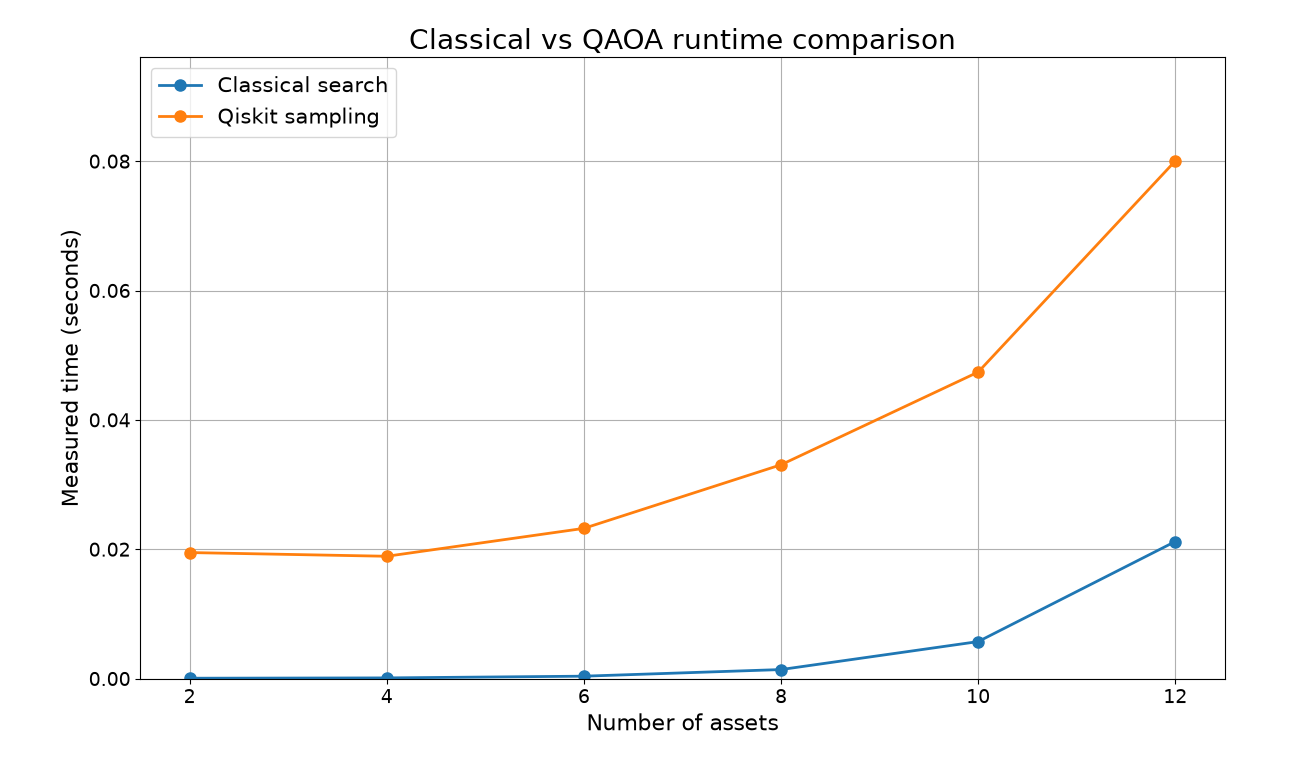
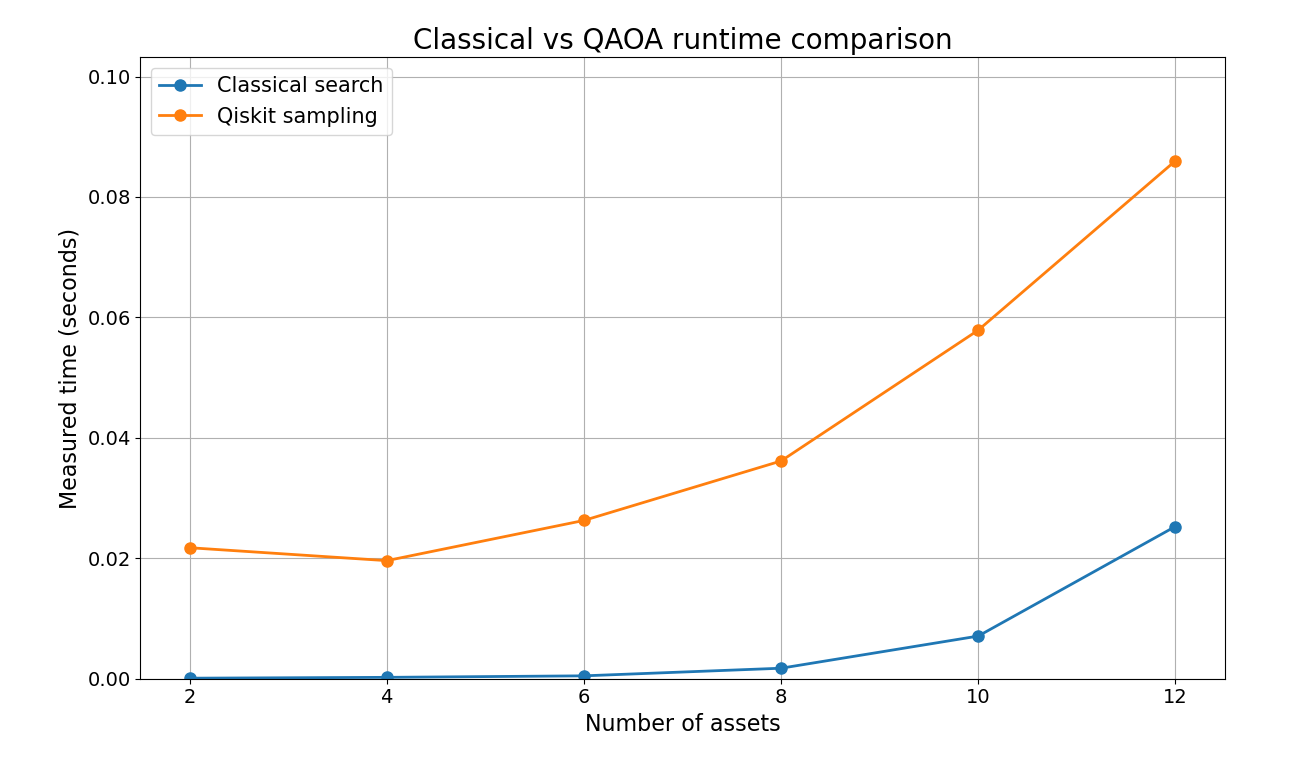
chang

diff --git a/portfolio_quantum_router.py b/portfolio_quantum_router.py
@@ -200,14 +200,14 @@ def benchmark(returns, covariance):
 
 
 def main():
-    # assets used for the observed comparison run
+    # assets used for the observed comparison runs
     tickers = [
         "AAPL", "MSFT", "GOOGL", "AMZN", "NVDA", "JPM",
         "META", "TSLA", "AVGO", "V", "MA", "UNH",
     ]
     returns, covariance = load_market_data(tickers)
 
-    # compare the exact classical result vs the quantum opt. result
+    # compare the exact classical result vs the quantum opt. results
     print("Running both methods side by side: classical exhaustive search and QAOA simulation.")
     benchmark(returns, covariance)
     classical_portfolio, classical_score = brute_force(returns, covariance)
